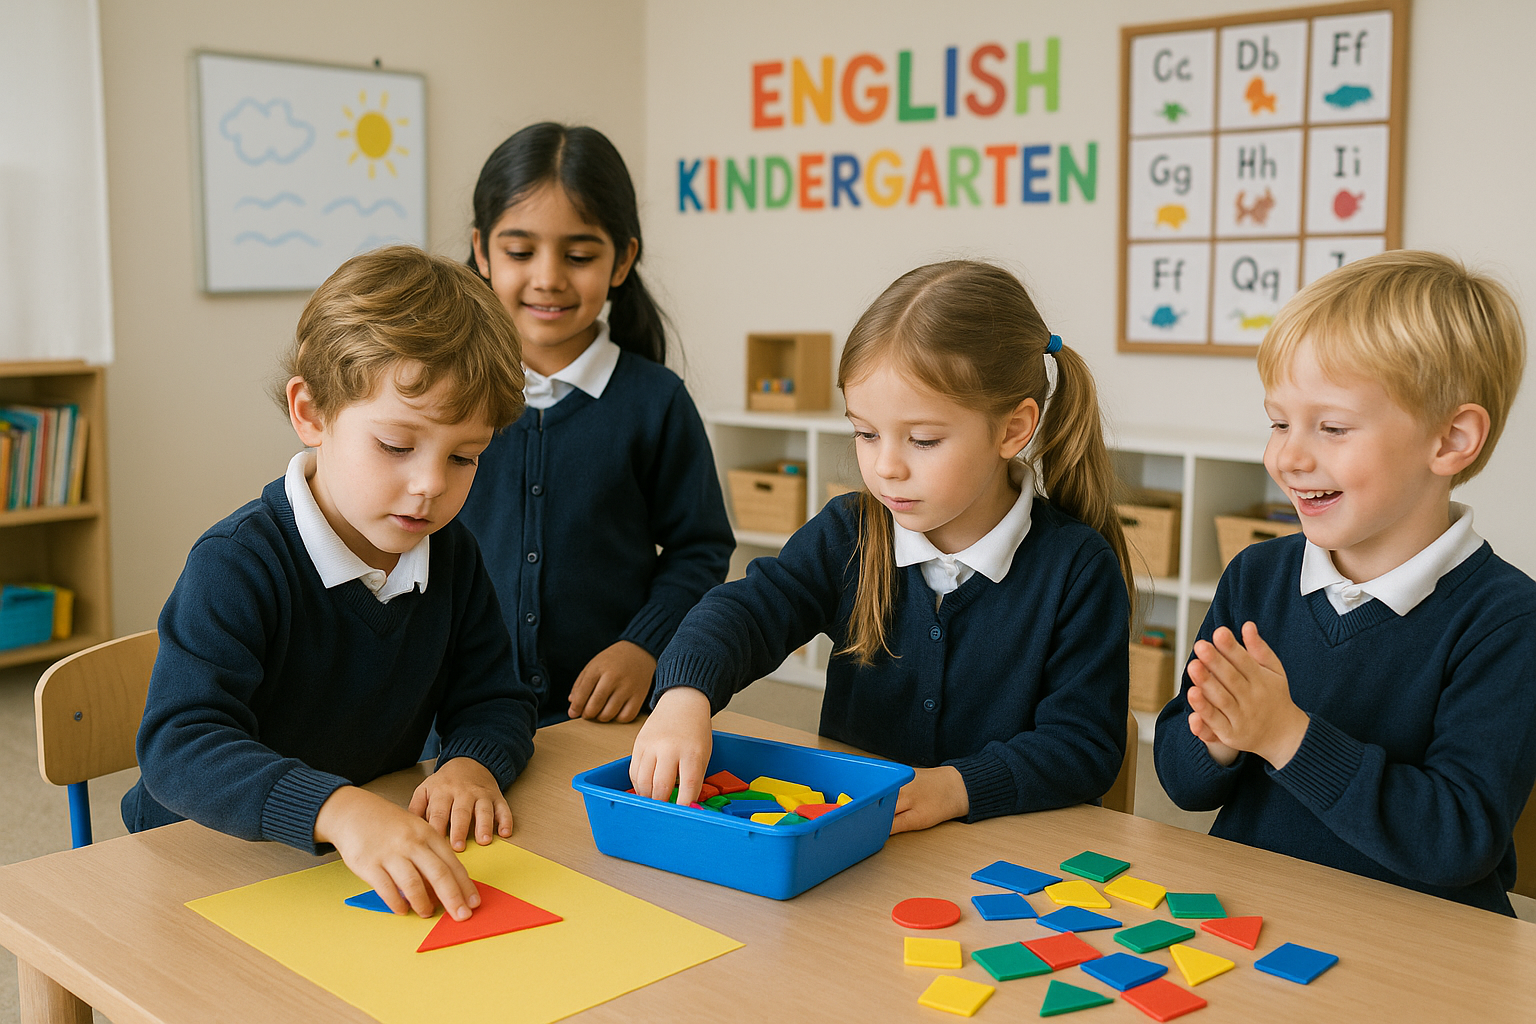
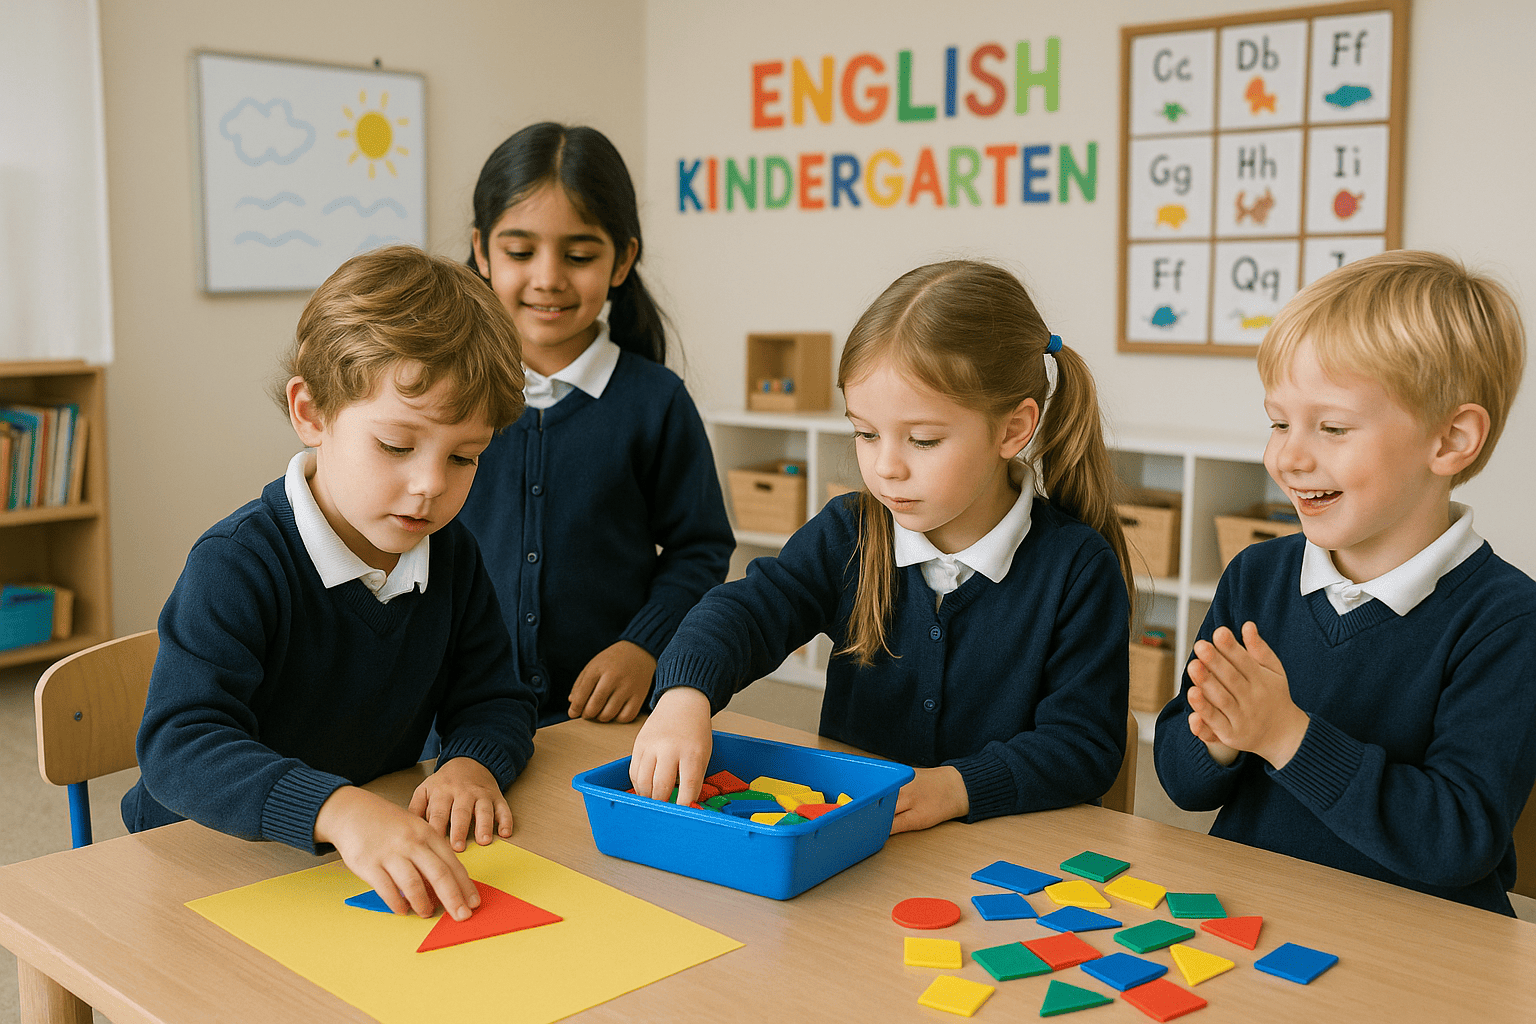
refactor: 이미지 용량 압축

diff --git a/src/components/Header.tsx b/src/components/Header.tsx
@@ -20,9 +20,6 @@ const Header = ({ isScrolled }: HeaderProps) => {
     { name: "시설", href: "/facilities" },
   ];
 
-  // 헤더는 항상 흰색 배경으로 고정
-  const isDarkBackground = false;
-
   return (
     <header className="fixed top-0 left-0 right-0 z-50 transition-all duration-300 bg-white/95 backdrop-blur-md shadow-lg">
       <div className="max-w-7xl mx-auto px-4 sm:px-6 lg:px-8">
